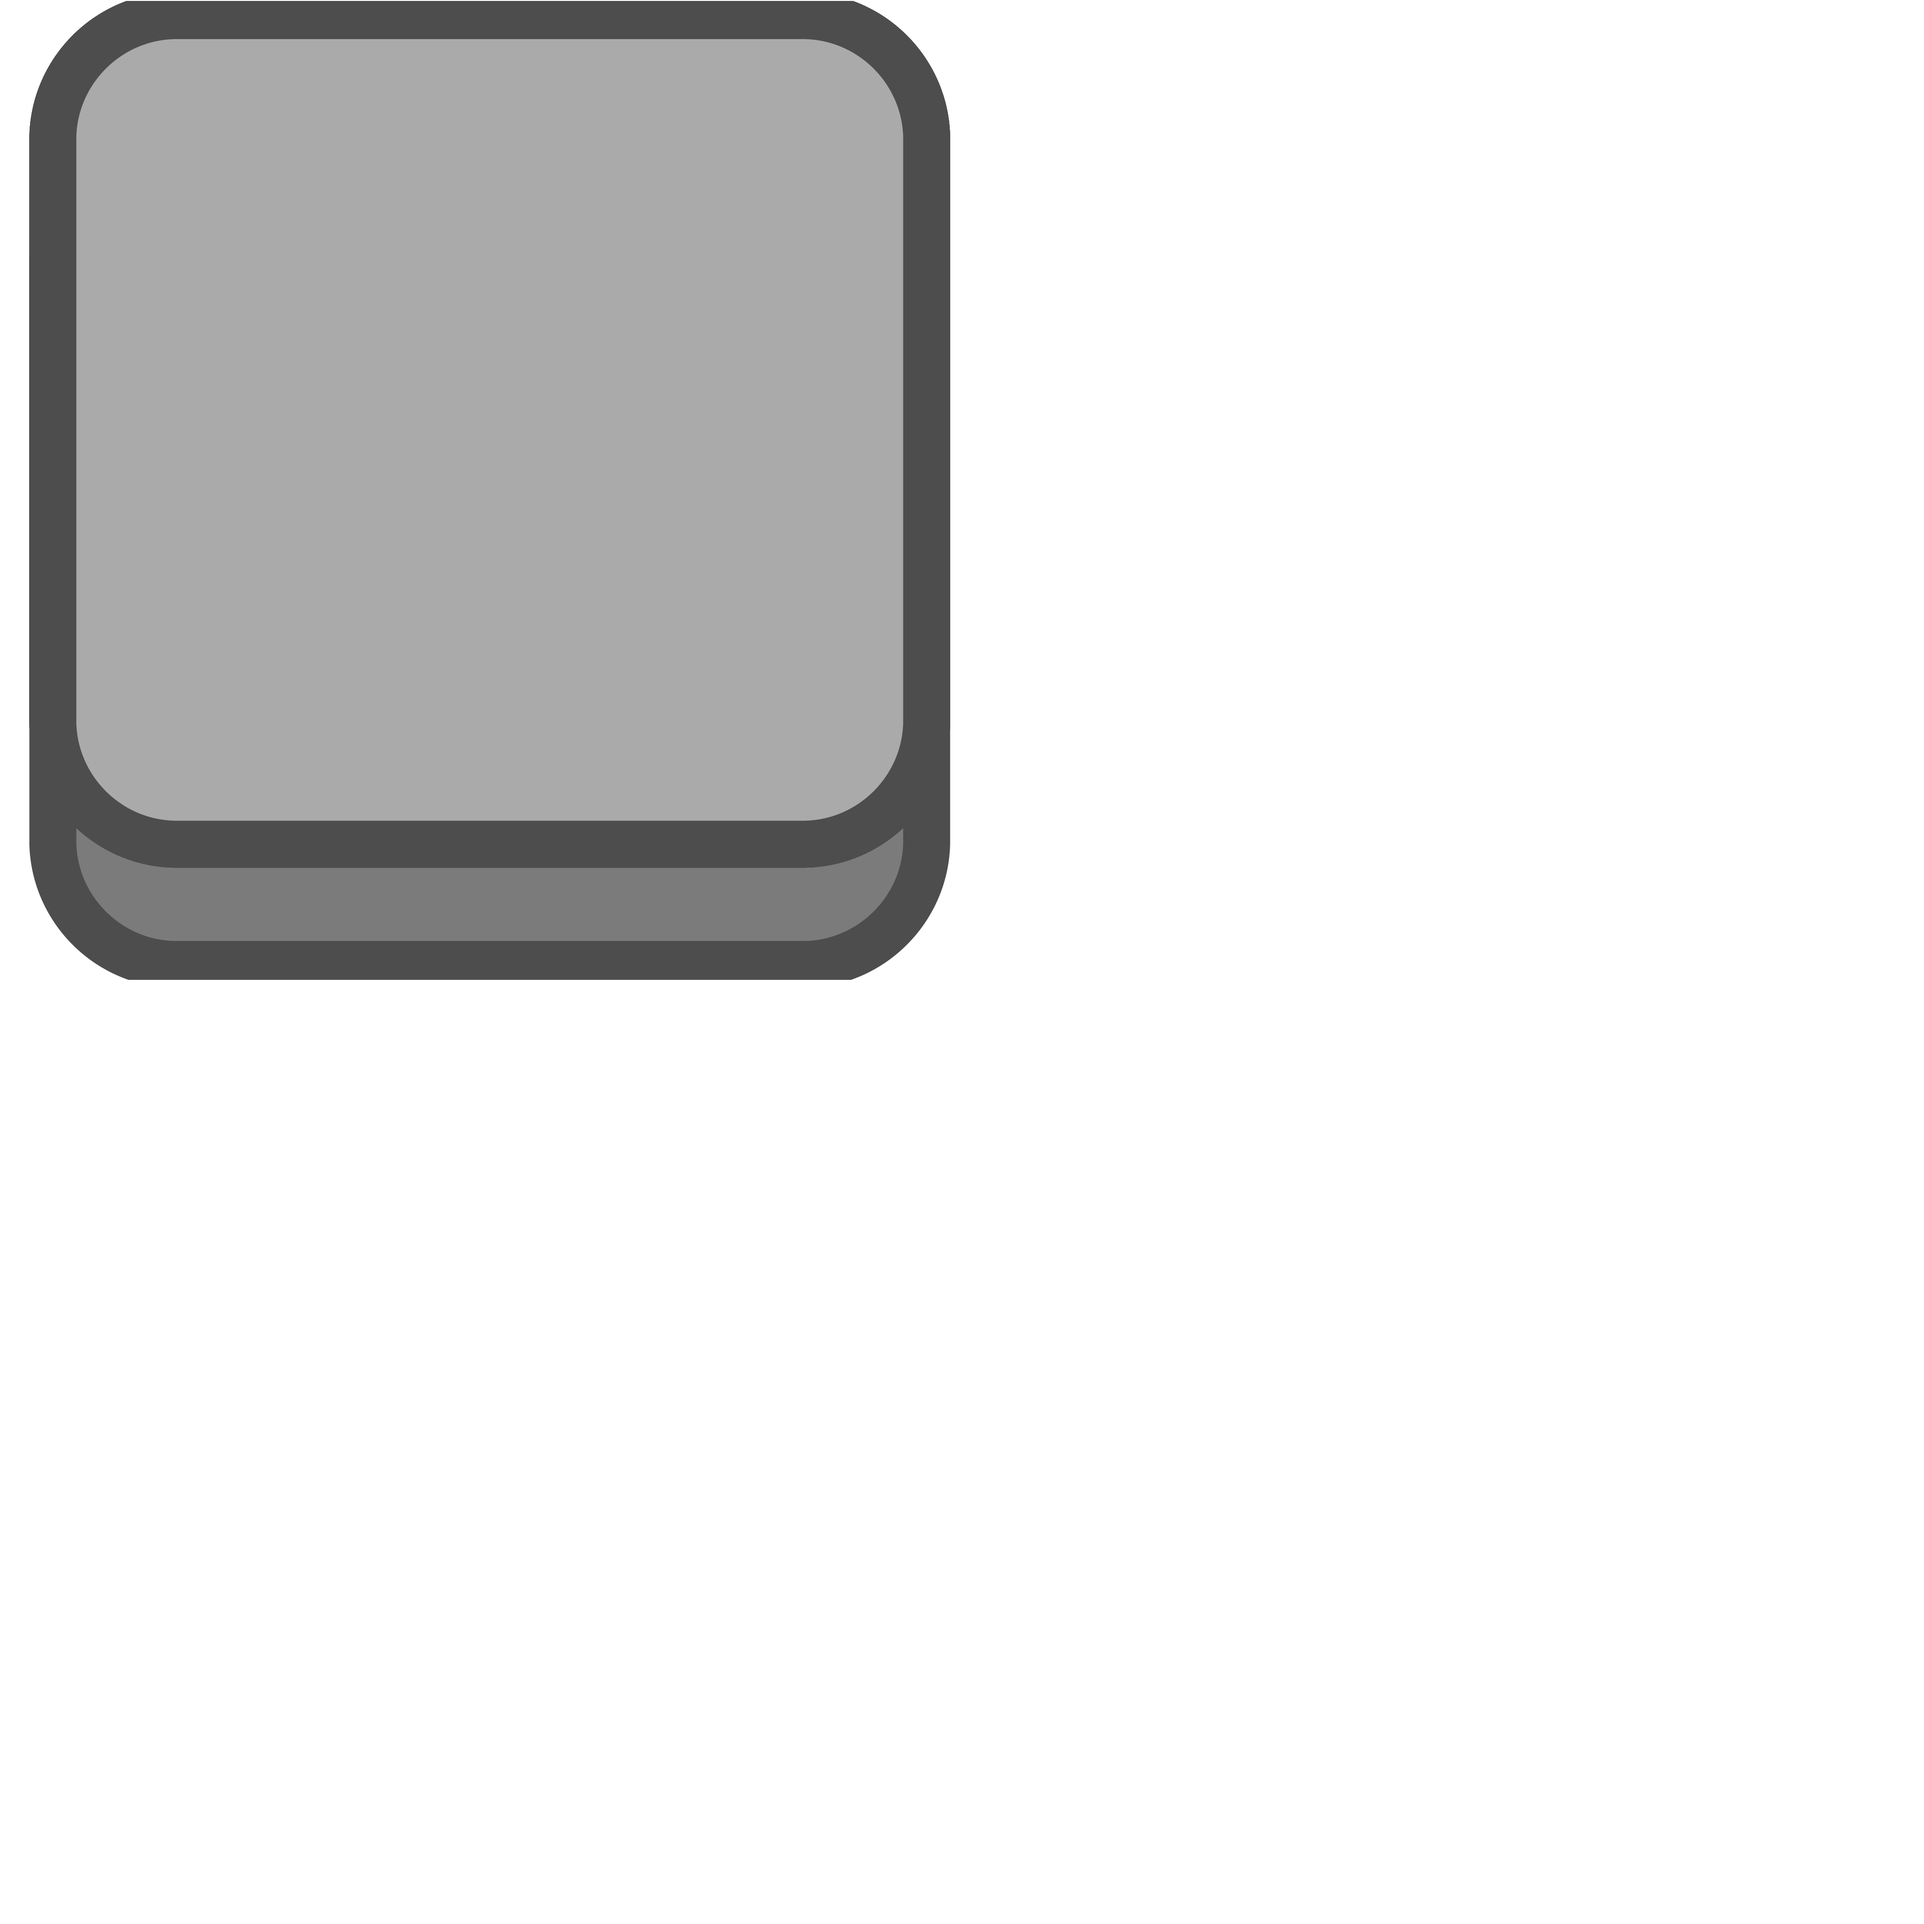
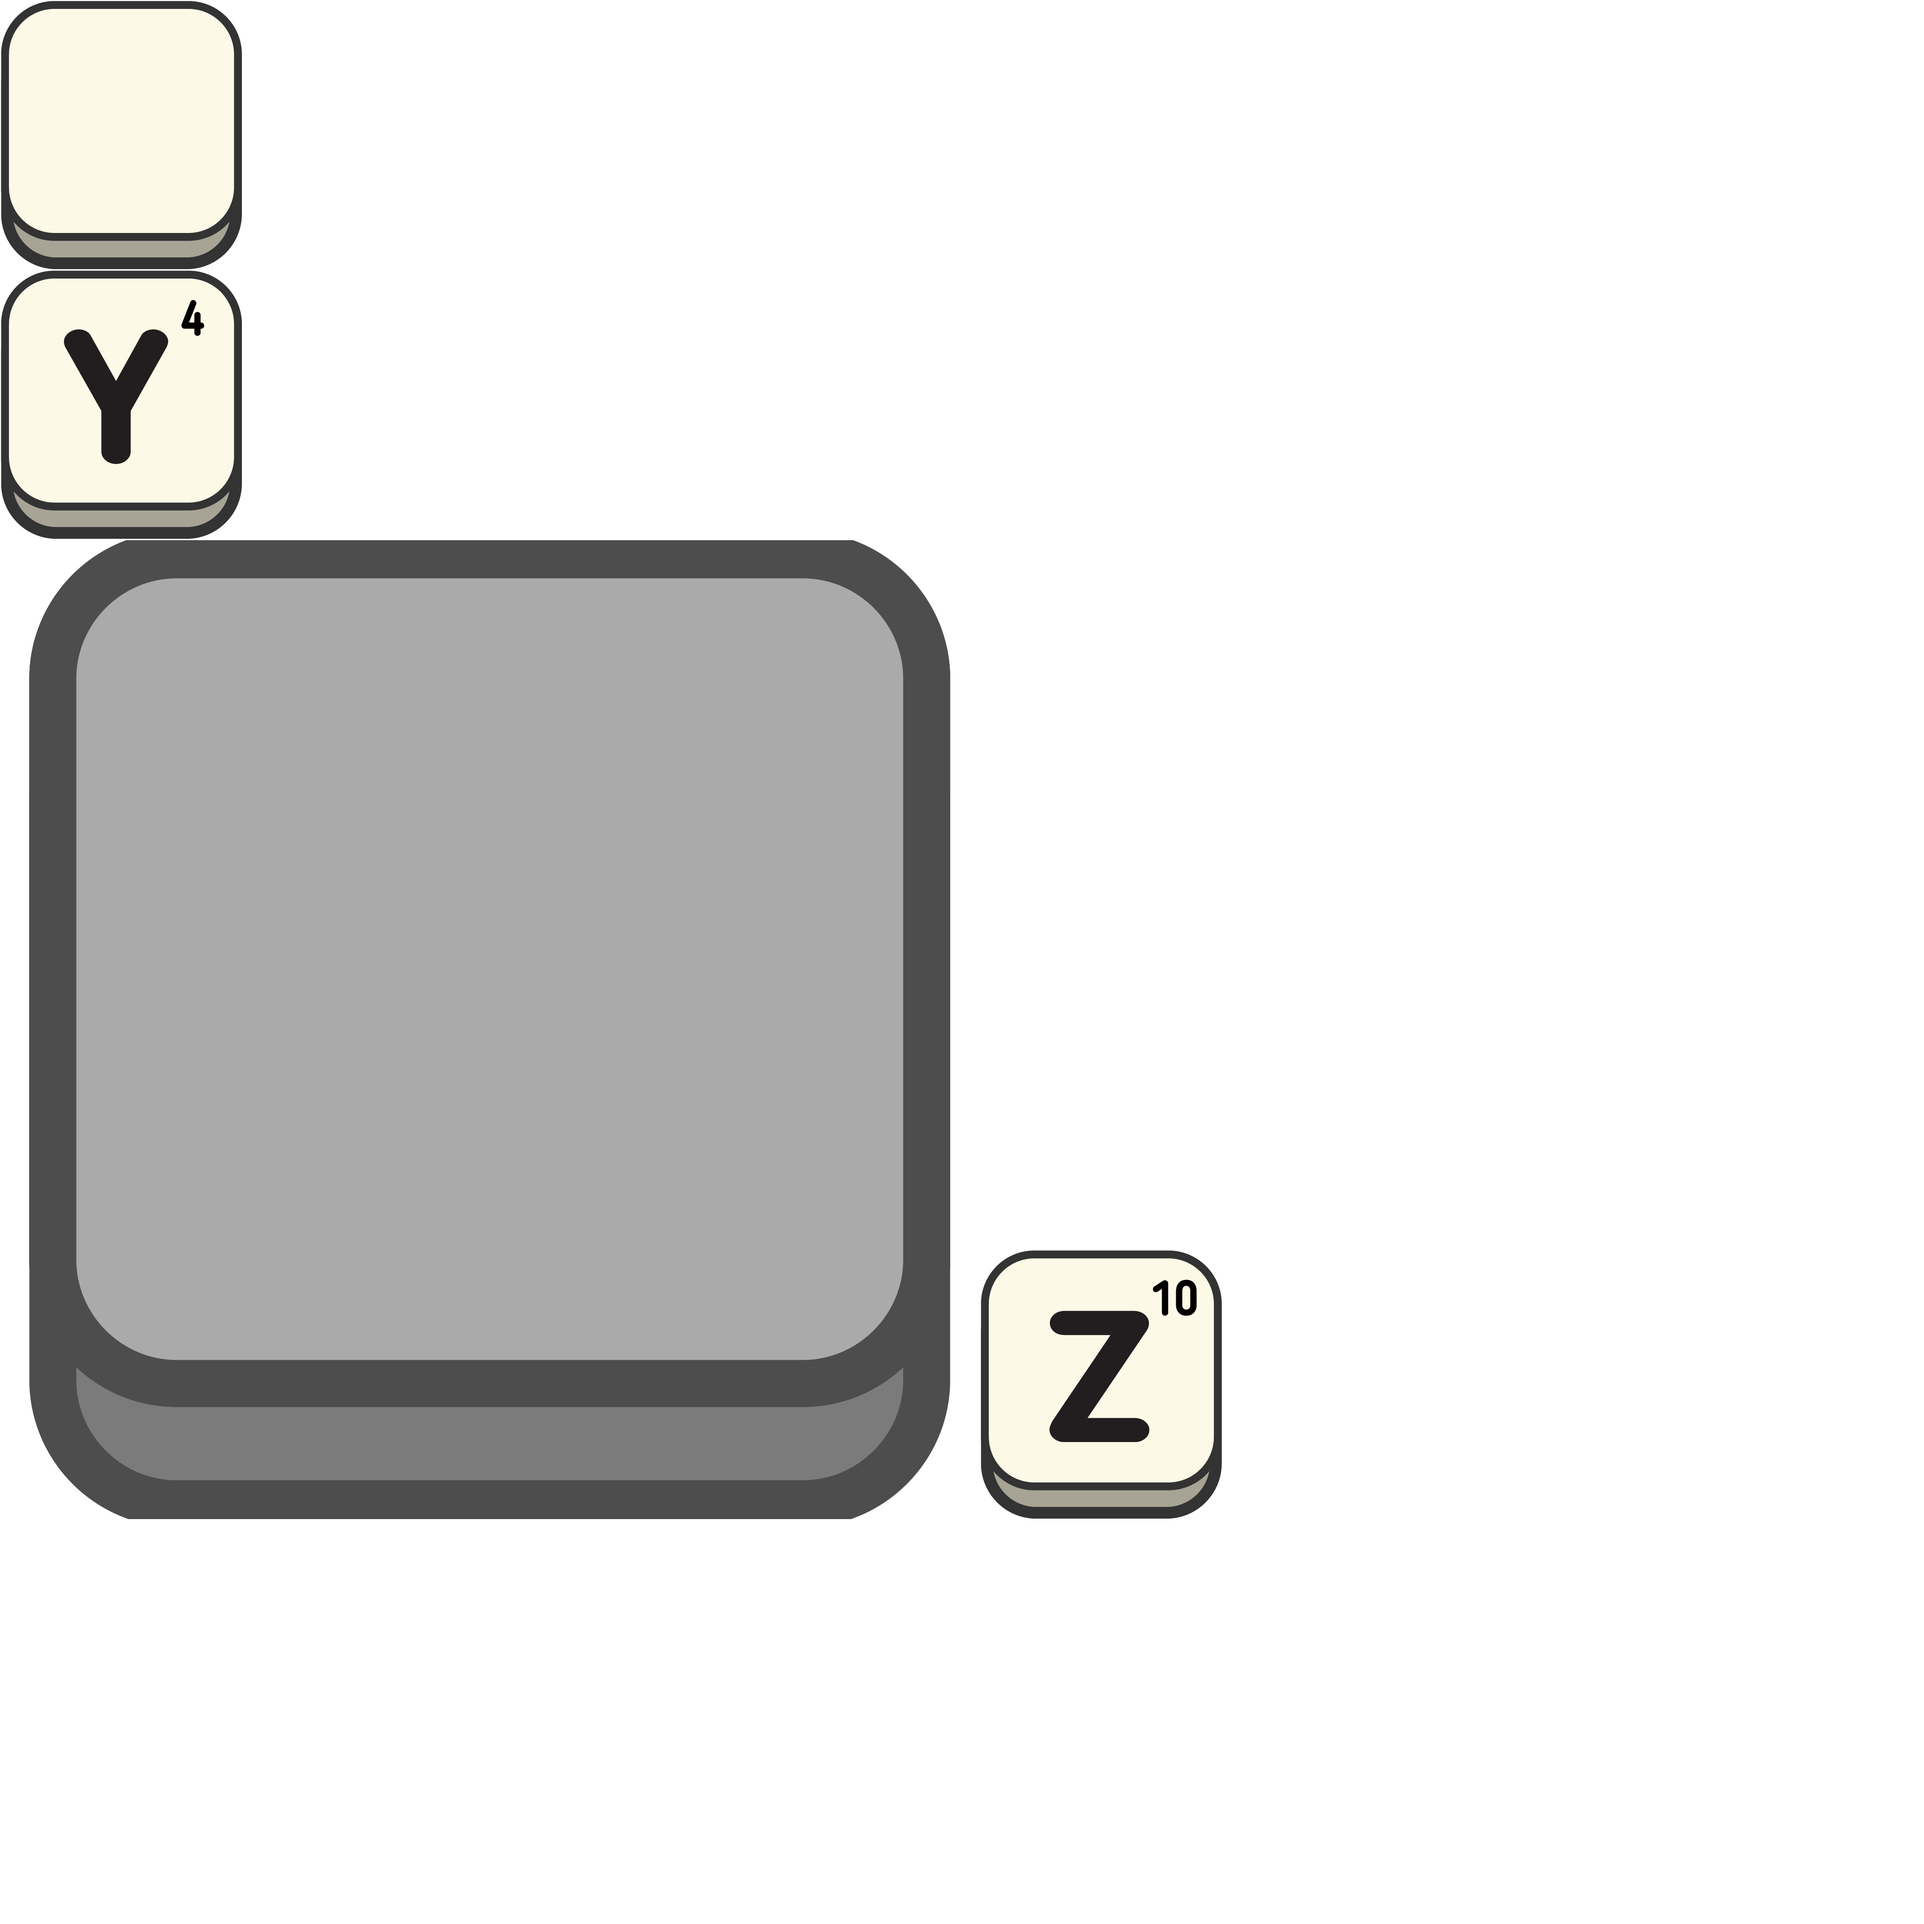
gui update

diff --git a/Server Frontend/core/src/com/csc480/game/GUI/Actors/HandActor.java b/Server Frontend/core/src/com/csc480/game/GUI/Actors/HandActor.java
@@ -24,7 +24,7 @@ import java.util.ArrayList;
 public class HandActor extends Group {
     private boolean flip = false;
     ArrayList<TileActor> myHand;
-    Image rack;
+    //Image rack;
     Label name;
     Player associatedPlayer;
 
@@ -33,14 +33,22 @@ public class HandActor extends Group {
         myHand = new ArrayList<TileActor>();
         flip = flipTiles;
         //This could easily be put into an if statement to change the loaded image based on user color
-        //SHOULD MAKE A FUNCTION THAT MANAGES THIS TEXTURE IN THE TEXTURE MANAGER!!!!!!!!!!!!!!!!!!!!!!!!!!!!!!!!!!!
-        rack = new Image(TextureManager.getInstance().rack);
+        //GameScreen.GUI_UNIT_SIZE/2)+count*GameScreen.GUI_UNIT_SIZE, GameScreen.GUI_UNIT_SIZE/2
+        //rack = new Image(TextureManager.getInstance().rack);
+        //build the slots
+        for(int i = 0; i < 7; i++){
+            Image temp = new Image(TextureManager.getInstance().getSlotTexture());
+            temp.setPosition((GameScreen.GUI_UNIT_SIZE/2)+i*GameScreen.GUI_UNIT_SIZE, GameScreen.GUI_UNIT_SIZE/2);
+            temp.setScale((GameScreen.GUI_UNIT_SIZE/GameScreen.TILE_PIXEL_SIZE)/4);
+            addActor(temp);
+        }
+
         name = new Label("default",TextureManager.getInstance().ui,"default");
         name.setName("name");
         name.setPosition(GameScreen.GUI_UNIT_SIZE/2,0);
-        rack.setScale(.2f);
+        //rack.setScale(.2f);
         associatedPlayer = new Player();
-        this.addActor(rack);
+        //this.addActor(rack);
         this.addActor(name);
         addTile(new TileActor('A'));
         addTile(new TileActor('B'));
@@ -60,7 +68,8 @@ public class HandActor extends Group {
         }
 
         super.addActor(a);
-        a.setPosition((GameScreen.GUI_UNIT_SIZE/2)+myHand.size()*GameScreen.GUI_UNIT_SIZE, GameScreen.GUI_UNIT_SIZE/2);
+        a.scaleBy(-.005f);
+        a.setPosition(((GameScreen.GUI_UNIT_SIZE/2)+myHand.size()*GameScreen.GUI_UNIT_SIZE)+GameScreen.GUI_UNIT_SIZE*.032f, GameScreen.GUI_UNIT_SIZE/2+GameScreen.GUI_UNIT_SIZE*.1f);//GameScreen.GUI_UNIT_SIZE/2);
         myHand.add(a);
     }
 
@@ -78,7 +87,7 @@ public class HandActor extends Group {
             for(Actor child : this.getChildren()){
                 if(child instanceof TileActor){
                     MoveToAction mta = new MoveToAction();
-                    mta.setPosition((GameScreen.GUI_UNIT_SIZE/2)+count*GameScreen.GUI_UNIT_SIZE, GameScreen.GUI_UNIT_SIZE/2);
+                    mta.setPosition(((GameScreen.GUI_UNIT_SIZE/2)+count*GameScreen.GUI_UNIT_SIZE)+GameScreen.GUI_UNIT_SIZE*.032f, GameScreen.GUI_UNIT_SIZE/2+GameScreen.GUI_UNIT_SIZE*.1f);
                     mta.setDuration(1f);
                     child.addAction(mta);
                     count++;

diff --git a/Server Frontend/core/src/com/csc480/game/Engine/TextureManager.java b/Server Frontend/core/src/com/csc480/game/Engine/TextureManager.java
@@ -16,7 +16,7 @@ public class TextureManager {
         private static TextureManager instance;
         //public final TextureAtlas textureAtlas;
         public Skin ui;
-        public final Texture rack;
+        //public final Texture rack;
         public final Texture background;
         public final Texture tile;
         public final TextureAtlas tilesAtlas;
@@ -25,6 +25,7 @@ public class TextureManager {
         public static final String GREEN_TILE = "~Green";
         public static final String GOLD_TILE = "~Gold";
         public static final String BLANK_TILE = "_Blank";
+        public static final String INVIS_TILE = "_Invis";
         public static final String EMPTY_TILE = "~Empty";
 
         public static TextureManager getInstance(){
@@ -39,7 +40,7 @@ public class TextureManager {
 //            ui.getFont("font").getData().
             ui.getFont("font").setUseIntegerPositions(false);
             ui.getFont("font").getData().setScale(.3f,.3f);
-            rack = new Texture(Gdx.files.internal("rack.jpg"));
+            //rack = new Texture(Gdx.files.internal("rack.jpg"));
 
             tile = new Texture(Gdx.files.internal("temp.png"));
             tilesAtlas = new TextureAtlas(Gdx.files.internal("tilesAtlas.atlas"));
@@ -51,11 +52,13 @@ public class TextureManager {
         public TextureAtlas.AtlasRegion getTileTexture(String tile){
             if(tile.length() == 1) tile = tile.toUpperCase();
             return tilesAtlas.findRegion(tile);
-
+        }
+        public TextureAtlas.AtlasRegion getSlotTexture(){
+            return tilesAtlas.findRegion("slot");
         }
         public void Dispose(){
             ui.dispose();
-            rack.dispose();
+            //rack.dispose();
             instance = null;
             tilesAtlas.dispose();
            // textureAtlas.dispose();

diff --git a/Server Frontend/core/src/com/csc480/game/Engine/GameManager.java b/Server Frontend/core/src/com/csc480/game/Engine/GameManager.java
@@ -68,9 +68,9 @@ public class GameManager {
             e.printStackTrace();
         }
         for(int i = 0; i < 4; i++){
-//            theAIs[i] = new AI();
-//            thePlayers[i] = theAIs[i];
-            thePlayers[i] = new Player();
+            theAIs[i] = new AI();
+            thePlayers[i] = theAIs[i];
+//            thePlayers[i] = new Player();
         }
 
 
@@ -261,9 +261,21 @@ public class GameManager {
                         JSONObject player  = (JSONObject)players.get(i);
                         int index = player.getInt("position");
                         try {
-                            thePlayers[index].score = player.getInt("score");
-                            thePlayers[index].name = player.getString("name");
-                            thePlayers[index].team = player.getString("team");
+                            if(player.get("score") != null)
+                                thePlayers[index].score = player.getInt("score");
+                            else
+                                thePlayers[index].score = 0;
+
+                            if(player.get("name") != null)
+                                thePlayers[index].name = player.getString("name");
+                            else
+                                thePlayers[index].name = "";
+
+                            if(player.get("team") != null)
+                                thePlayers[index].team = player.getString("team");
+                            else
+                                thePlayers[index].team = "";
+
                             thePlayers[index].turn = player.getBoolean("isTurn");
                             System.out.println("updating player @ index " + index);
                         }catch (JSONException e){

diff --git a/Server Frontend/core/src/com/csc480/game/GUI/GameScreen.java b/Server Frontend/core/src/com/csc480/game/GUI/GameScreen.java
@@ -61,8 +61,8 @@ public class GameScreen implements Screen {
         view = new FitViewport(GUI_UNIT_SIZE * 45, GUI_UNIT_SIZE * 45 * aspectRatio, viewCam);//Gdx.graphics.getHeight(), Gdx.graphics.getHeight()*aspectRatio, viewCam);
         view.apply();
         stage = new Stage(view);
-        stage.setDebugAll(true);
-        stage.setDebugInvisible(false);
+//        stage.setDebugAll(true);
+//        stage.setDebugInvisible(false);
 
         oswebbleGame = mainGame;
 
@@ -163,7 +163,7 @@ public class GameScreen implements Screen {
         //Clear the screen from the last frame
         Gdx.gl.glClear(GL20.GL_COLOR_BUFFER_BIT);
         //Set the entire screen to this color
-        Gdx.gl.glClearColor(.17f, .17f, .17f, 1);
+        Gdx.gl.glClearColor(.666f, .666f, .666f, 1);
         //perform the actions of the actors
         stage.act(delta);
         //render the actors

diff --git a/Server Frontend/core/src/com/csc480/game/GUI/Actors/GameBoardTable.java b/Server Frontend/core/src/com/csc480/game/GUI/Actors/GameBoardTable.java
@@ -63,8 +63,22 @@ public class GameBoardTable extends Group {
         setTile(7,10, TextureManager.GOLD_TILE);
 
         setTile(10,0, TextureManager.GOLD_TILE);
-        System.out.println(board.getChildren().size);
         addActor(board);
+
+        board = new Table();
+        board.setPosition(0,GameScreen.GUI_UNIT_SIZE*.125f);
+        board.setHeight(GameScreen.GUI_UNIT_SIZE*8.75f);
+        board.setWidth(GameScreen.GUI_UNIT_SIZE*8.75f);
+        for(int i= 0; i < 11; i++){
+            for(int j = 0; j < 11; j++){
+                Image tile = new Image(TextureManager.getInstance().getTileTexture(TextureManager.INVIS_TILE));
+                tile.setName("`");
+                board.add(tile);
+            }
+            board.row();
+        }
+        addActor(board);
+
 
     }
     public void setTile(int x, int y, String letter){
